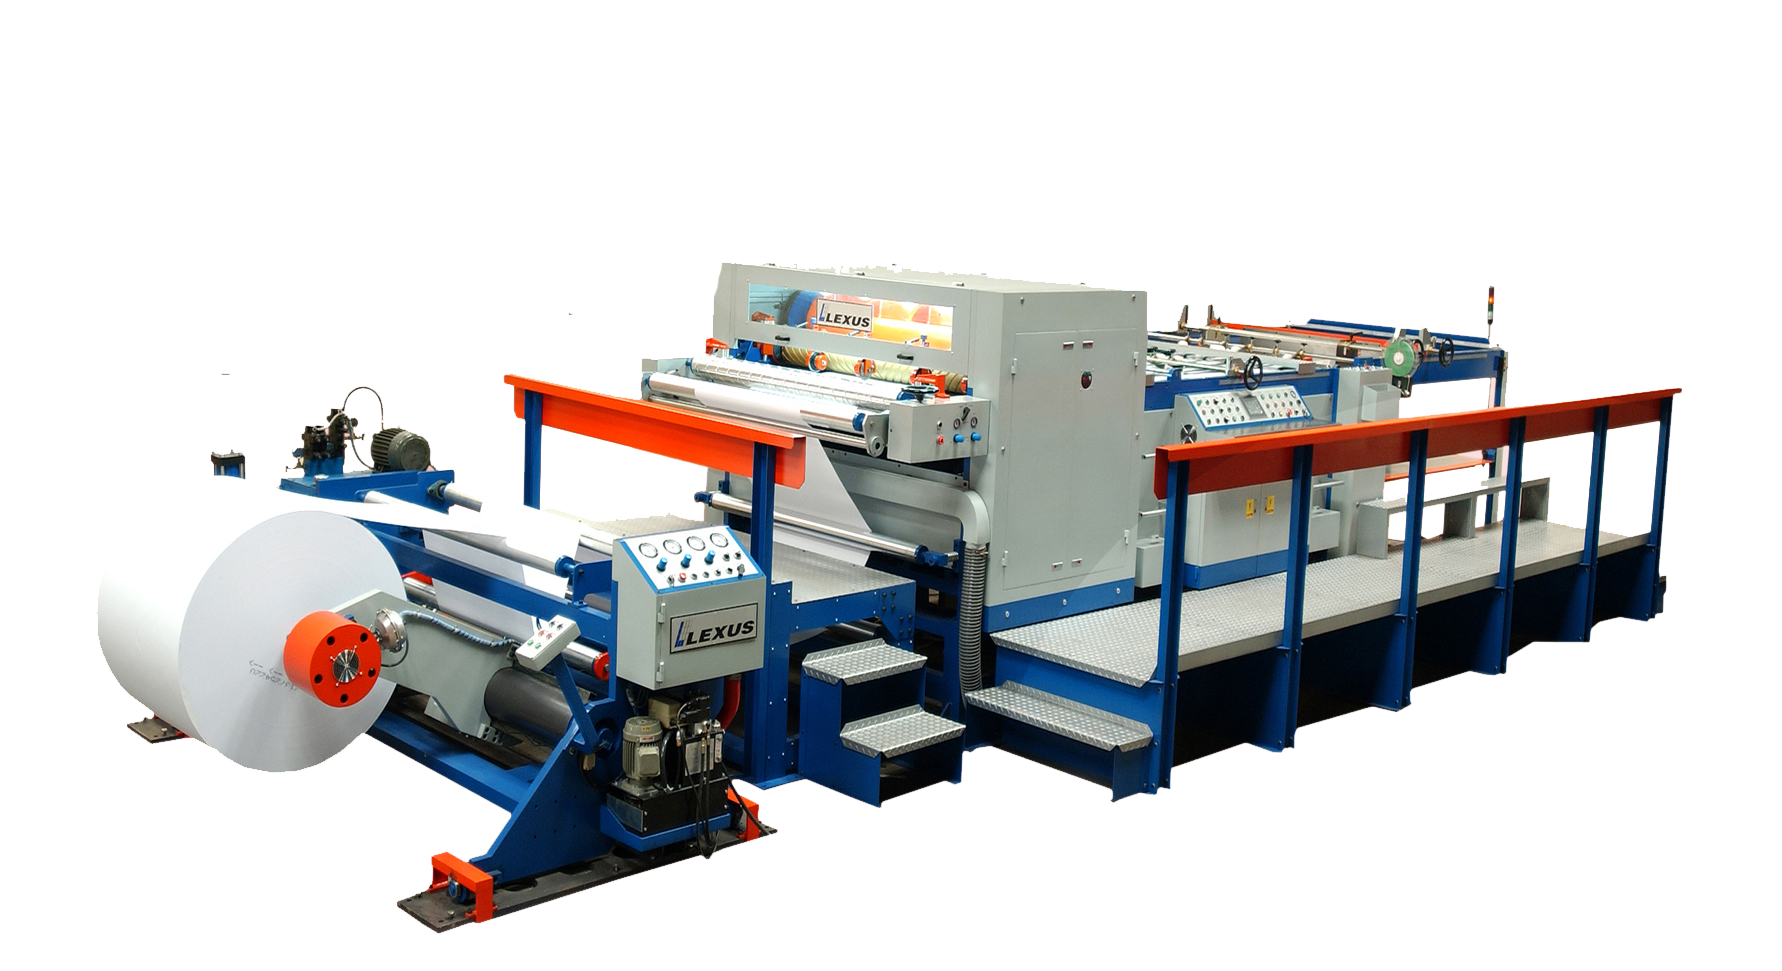
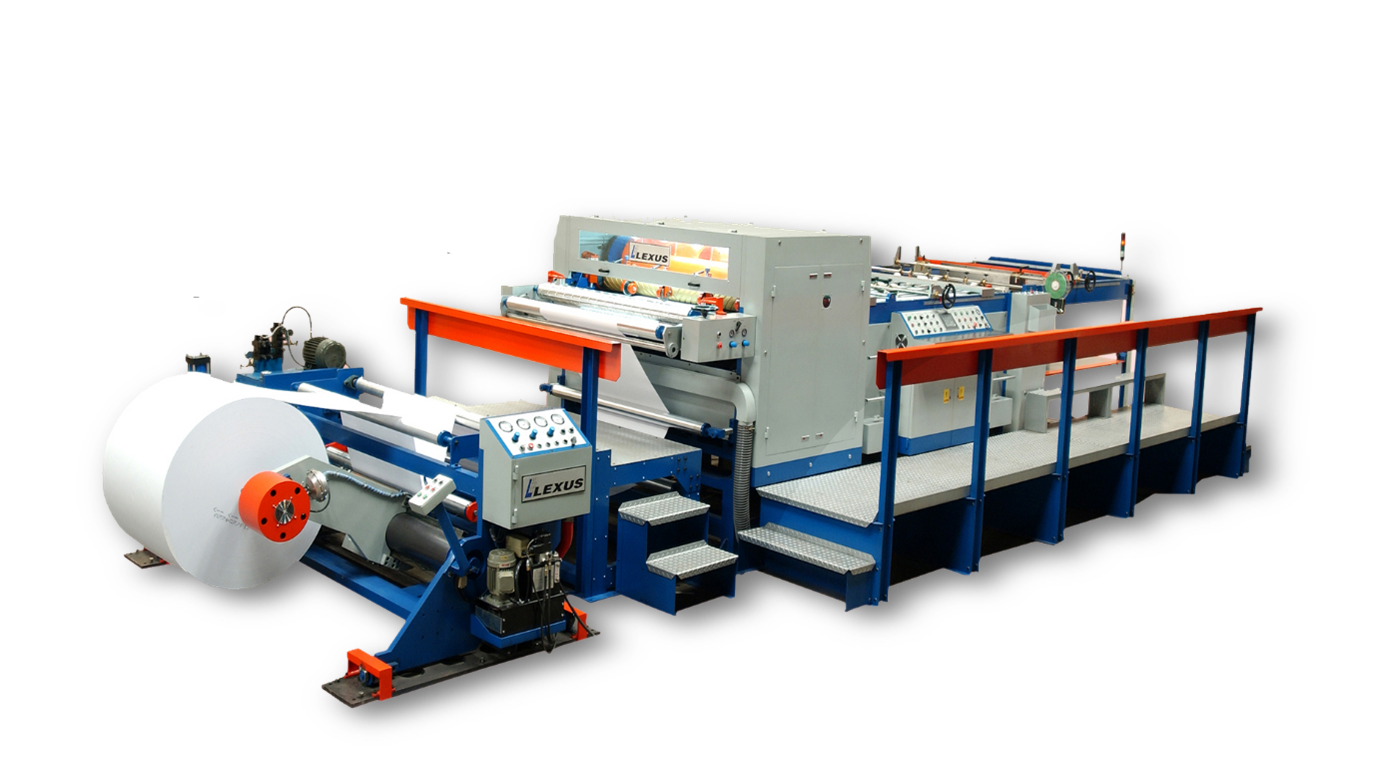
Add order_now content

Changed region(s): [[0.0308, 0.2462, 0.9535, 0.9538]]

diff --git a/web/styles/main.css b/web/styles/main.css
@@ -232,7 +232,64 @@ http://stackoverflow.com/questions/18777235/center-content-in-responsive-bootstr
     	width: 25em;
     }
   }
+/*=================================================================
+  Order now styles
+  =================================================================*/
+  #order-now-content #mach-img {
+      height: 500px;
+      width: 600px;
+    }
+    #order-now-content header {
+      background-color: transparent;
+    }
+    #order-now-content header h1 {
+      font-size: 1.6em;
+    }
+    #order-now-content .btn-group {
+      display: block;
+    }
+    #order-now-content .btn-group > a {
+      font-size: 1.25em;
+      margin: 1em;
+      border-radius: 5px;
+      text-align: left;
+      color: black;
+      background-color: transparent;
+      border: 1px solid silver;
+      width: inherit;
+    }
+    #order-now-content .btn-group > a small {
+      display: block;
+    }
+    #order-now-content .btn-group > a:hover {
+      border-color: #153a7e; 
+      color: #153a7e;
+    }
+    #order-now-content #continue-btn {
+      text-transform: uppercase;
+      letter-spacing: 1px;
+      background-color: #bdc3c7;
+      color: #153a7e;
+      border: 1px solid transparent;
+      border-radius: 0;
+      font-weight: bold;
+      margin-top: 2em;
+      margin-left: 18px;
+    }
+    #order-now-content #continue-btn:hover {
+      background-color: transparent;
+      border: 1px solid silver;
+      color: #153a7e;
+    }
+    #order-now-content #continue-btn:active {
+      background-color: transparent;
+      border: 1px solid gray;
+      color: gray;
 
+      -moz-box-shadow:    3px 3px 5px 6px #ccc;
+        -webkit-box-shadow: 3px 3px 5px 6px #ccc;
+        box-shadow:         3px 3px 5px 6px #ccc;
+    }
 
 /*=================================================================
   Dashboard styles

diff --git a/web/order_now.php b/web/order_now.php
@@ -6,27 +6,75 @@
 		<link rel="stylesheet" href="styles/bootstrap.min.css">
 		<link rel="stylesheet" href="styles/main.css">
 		<title>Machinovate | Order Now</title>
-		<style type="text/css">
-		.mach-img {
-			height: 300px;
-			width: 300px;
-		}
-		</style>
 	</head>
 	<body>
 		<?php include 'header_before_login.php';?>
 		
-		<div class="container">
-			<img class="mach-img" alt="slitter" src="images/slitter-front.png">
-			<img class="mach-img" alt="sheeter" src="images/sheeter-servo.png">
-			<img class="mach-img" alt="cutter" src="images/cutter.png">
-			<img class="mach-img" alt="other-products" src="images/other-products.png">
+		<div id="order-now-content" class="container">
+			<div class="row">
+				<div class="col-md-6 visible-md-block visible-lg-block">
+					<img id="mach-img" alt="slitter" src="images/slitter-front.png">
+				</div>
+
+				<div class="col-xs-12 col-md-6">
+					<header class="page-header">
+						<h1>Choose your machine</h1>
+					</header>
+					<form>
+						<div class="btn-group btn-group-vertical">
+						  <a id="slitter" href="#" onclick="changeImage(0)" class="btn btn-primary">Slitter<small>Short description.</small></a>
+						  <a id="sheeter" href="#" onclick="changeImage(1)" class="btn btn-primary">Sheeter<small>Short description.</small></a>
+						  <a id="cutter" href="#" onclick="changeImage(2)" class="btn btn-primary">Cutter<small>Short description.</small></a>
+						  <a id="other-products" href="#" onclick="changeImage(3)" class="btn btn-primary">Other Products<small>Short description.</small></a>
+						</div>
+						<a href="#" id="continue-btn" class='btn btn-primary'>Continue</a>
+					</form>
+				</div>
+			</div>
 		</div> <!-- ./container -->
 
 		<script type="text/javascript" src="scripts/jquery-2.2.0.min.js"></script>
 		<script type="text/javascript" src="scripts/bootstrap.min.js"></script>
 		<script type="text/javascript">
 			document.getElementById("order-now").className = "active";
+			document.getElementById("slitter").style.backgroundColor = "silver";
+
+			function changeImage(machine) {
+			    var image = document.getElementById('mach-img');
+			    switch(machine) {
+			    	case 0:
+			    		image.src = "images/slitter-front.png";
+			    		image.alt = "slitter";
+			    		document.getElementById("slitter").style.backgroundColor = "silver";
+			    		document.getElementById("sheeter").style.backgroundColor = "transparent";
+			    		document.getElementById("cutter").style.backgroundColor = "transparent";
+			    		document.getElementById("other-products").style.backgroundColor = "transparent";
+			    		break;
+			    	case 1: 
+			    		image.src = "images/sheeter-servo.png";
+			    		image.alt = "sheeter";
+			    		document.getElementById("slitter").style.backgroundColor = "transparent";
+			    		document.getElementById("sheeter").style.backgroundColor = "silver";
+			    		document.getElementById("cutter").style.backgroundColor = "transparent";
+			    		document.getElementById("other-products").style.backgroundColor = "transparent";
+			    		break;
+			    	case 2:
+			    		image.src = "images/cutter.png";
+			    		image.alt = "cutter";
+			    		document.getElementById("slitter").style.backgroundColor = "transparent";
+			    		document.getElementById("sheeter").style.backgroundColor = "transparent";
+			    		document.getElementById("cutter").style.backgroundColor = "silver";
+			    		document.getElementById("other-products").style.backgroundColor = "transparent";
+			    		break;
+			    	case 3:
+			    		image.src = "images/other-products.png";
+			    		image.alt = "other products";
+			    		document.getElementById("slitter").style.backgroundColor = "transparent";
+			    		document.getElementById("sheeter").style.backgroundColor = "transparent";
+			    		document.getElementById("cutter").style.backgroundColor = "transparent";
+			    		document.getElementById("other-products").style.backgroundColor = "silver";
+			    }
+			}	
 		</script>
 	</body>
 </html>
